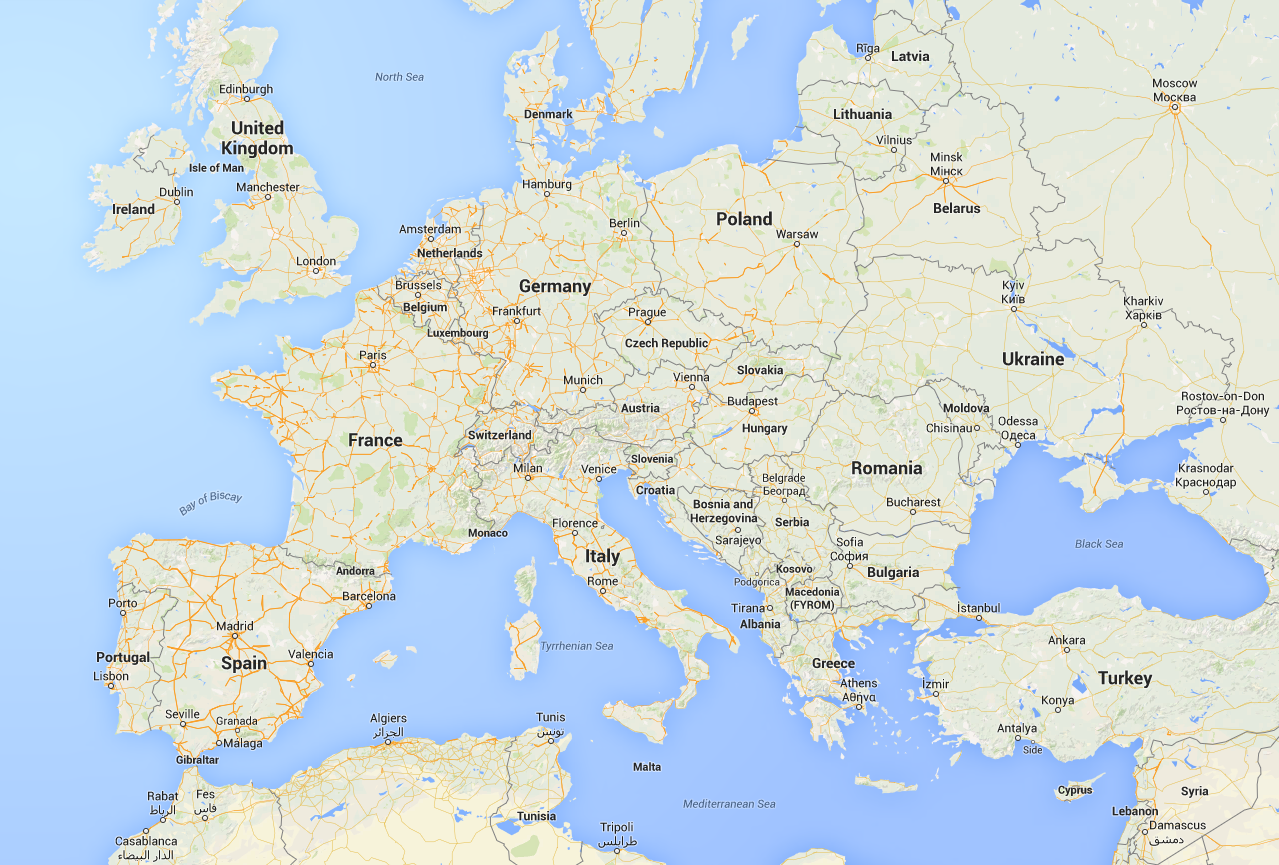
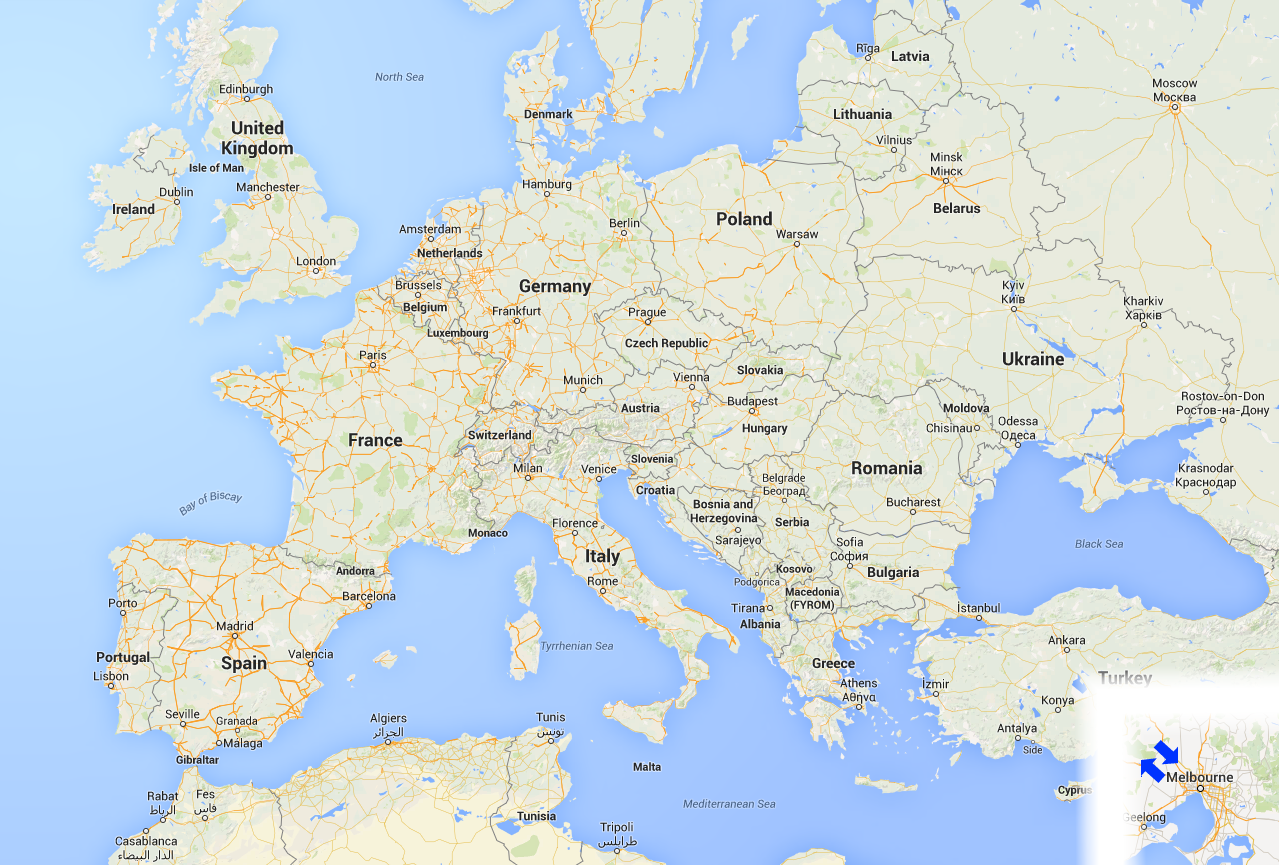
Finalised Trip Map Generator
- added melbourne flights and daily costs
- corrected locations
- put circles on visited cities. circle size varies with length of stay
in that city.
- also updated version of varying airfares extension

Changed region(s): [[0.8233, 0.7803, 1.0, 1.0]]

diff --git a/genTripMap.py b/genTripMap.py
@@ -2,8 +2,27 @@ from PIL import Image, ImageDraw
 im = Image.open("Europe.png")
 draw = ImageDraw.Draw(im)
 
-# define the trip
-trip = ["Paris", "London", "Madrid", "Florence", "Moscow","Crete","Prague","Venice","Barcelona","Istanbul"]
+def drawline( orig, dest, airfares = [] ):
+    # colour defined by travel cost
+    if not airfares:
+        draw.line(location[orig] + location[dest], fill="hsl(0,100%,0%)", width=7)
+        colour = 120-120*(travel[orig][dest]-minTravel)/(maxTravel-minTravel)
+        draw.line(location[orig] + location[dest], fill="hsl(%d,100%%,50%%)" % (colour), width=4)
+    else:
+        draw.line(location[orig] + location[dest], fill="hsl(0,100%,0%)", width=6)
+        colour = 120-120*(airfares[dest]-min(airfares))/(max(airfares)-min(airfares))
+        draw.line(location[orig] + location[dest], fill="hsl(%d,100%%,50%%)" % (colour), width=4)
+
+def drawcircle( city, radius ):
+    # colour defined by daily cost
+    colour = 120-120*(dailyMid[city]-min(dailyMid))/(max(dailyMid)-min(dailyMid))
+    draw.ellipse((location[city][0]-(radius+4), location[city][1]-(radius+4), location[city][0]+(radius+4), location[city][1]+(radius+4)), fill="hsl(0,100%,0%)")
+    draw.ellipse((location[city][0]-(radius+2), location[city][1]-(radius+2), location[city][0]+(radius+2), location[city][1]+(radius+2)), "hsl(%d,100%%,50%%)" % (colour))
+
+##### define the trip #####
+trip = ["Venice","London","Madrid","Florence","Moscow","Crete","Prague","Barcelona","Istanbul"]
+days = [ 3, 6, 2, 3, 5, 25, 2, 3, 1 ]
+#####
 
 names = ["Moscow","Paris","London","Madrid","Rome","Crete","Barcelona","Berlin","Budapest","Florence","Amsterdam","Prague","Istanbul","Vienna","Venice"]
 
@@ -25,20 +44,31 @@ travel = [
     [167,65,17,117,84,191,97,119,110,152,75,96,177,152,0]
 ]
 
-maxPrice = 309
+fromMelb = [1390,1090,1007,1175,1082,1298,1101,1376,1399,1611,1376,1236,1140,1044,1362]
+toMelb = [803,844,875,1061,934,922,983,921,1033,1186,622,1058,748,836,1076]
+dailyMid = [92, 223, 298, 148, 169, 181, 126, 130, 145, 142, 165, 100, 85, 158, 134]
 
-location = [(900,100),(350,370),(325,260),(210,550),(900,600),(800,700),(450,550),(999,555),(222,111),(333,111),(888,333),(555,666),(111,111),(123,123),(456,456)]
+location = [(1173,104),(372,363),(314,269),(233,635),(600,588),(900,784),(366,604),(622,231),(750,409),(573,532),(430,237),(647,321),(978,617),(691,386),(598,477),(1140,759),(1155,742)]
+
+minTravel = 17
+maxTravel = 309
+
+# draw line from melbourne to first city
+dest = names.index(trip[0])
+drawline( 15, dest, fromMelb )
 
 for i in range(len(trip)-1):
     orig = names.index(trip[i])
     dest = names.index(trip[i+1])
+    drawline( orig, dest )
+    drawcircle( orig, days[i] )
 
-    # draw a black line for the border
-    draw.line(location[orig] + location[dest], fill="hsl(0,100%,0%)", width=6)
-    
-    # draw a coloured line
-    colour = 120-120*travel[orig][dest]/maxPrice
-    draw.line(location[orig] + location[dest], fill="hsl(%d,100%%,50%%)" % (colour), width=4)
-    
+# draw line from last city to melbourne
+drawline( 16, dest, toMelb )
+
+# draw a circle on the last city
+drawcircle( dest, days[len(trip)-1] )
+
+
 im.save("Trip.png")
 
